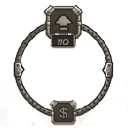
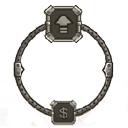
change background and button Start fix Health Bar

Changed region(s): [[0.3438, 0.2188, 0.6562, 0.4062], [0.625, 0.0938, 0.6562, 0.1875]]

diff --git a/Screen/GUI.java b/Screen/GUI.java
@@ -25,7 +25,7 @@ import static org.lwjgl.system.MemoryUtil.*;
 
 public class GUI extends Screen{
     private myTexture background;
-    private myTexture testButton;
+    private myTexture StartButton;
     private myTexture road;
     private long window;
     public boolean isPressed;
@@ -38,9 +38,15 @@ public class GUI extends Screen{
         this.background = new Utils.myTexture(backgroundImageSource, GL_QUADS);
 
         // Button
-        this.testButton = new Utils.myTexture(buttonImageSource, GL_POLYGON, 513, 346);
-        testButton.setDisplayHeight(768 / 10);
-        testButton.setDisplayWidth(1366 / 4);
+        this.StartButton = new Utils.myTexture(buttonImageSource, GL_POLYGON, 541, 343);
+        StartButton.setDisplayHeight(110);
+        StartButton.setDisplayWidth(300);
+
+        System.out.println(StartButton.getTopLeft().getX() + " " + StartButton.getTopLeft().getY());
+        System.out.println(StartButton.getBottomRight().getX() + " " + StartButton.getBottomRight().getY());
+
+        glEnable(GL_BLEND);
+        glBlendFunc(GL_SRC_ALPHA, GL_ONE_MINUS_SRC_ALPHA);
     }
 
     public void loop(long window) {
@@ -68,26 +74,30 @@ public class GUI extends Screen{
                 new Vertex(-1.0f, -1.0f)
         );
 
-        testButton.bind();
-        testButton.displayByVertex(new Vertex(-0.25f, 0.1f),
+        StartButton.bind();
+        StartButton.displayByVertex(
+                new Vertex(-0.25f, 0.1f),
                 new Vertex(0.25f, 0.1f),
-                new Vertex(0.25f, -0.1f),
-                new Vertex(-0.25f, -0.1f)
+                new Vertex(0.25f, -0.2f),
+                new Vertex(-0.25f, -0.2f)
         );
 
-        if (glfwGetMouseButton(this.window, GLFW_MOUSE_BUTTON_LEFT) == GLFW_TRUE)
-            if (onMouseHover)
+        if (glfwGetMouseButton(this.window, GLFW_MOUSE_BUTTON_LEFT) == GLFW_TRUE) {
+            System.out.println(Screen.getCursorPosX(this.window) + " " + Screen.getCursorPosY(this.window));
+            if (onMouseHover) {
                 this.isPressed = true;
+            }
+        }
 
-        if (checkMouseHover(testButton, this.window)) {
+        if (checkMouseHover(StartButton, this.window)) {
             if (!onMouseHover) {
-                testButton.changeImage("src/res/GFX/GUI/Button/button-selected.png");
+                StartButton.changeImage("src/res/GFX/GUI/Button/button-selected.png");
                 onMouseHover = true;
             }
         }
         else
             if (onMouseHover) {
-                testButton.changeImage("src/res/GFX/GUI/Button/button.png");
+                StartButton.changeImage("src/res/GFX/GUI/Button/button.png");
                 onMouseHover = false;
             }
 

diff --git a/Entity/Enemies/HealthBar.java b/Entity/Enemies/HealthBar.java
@@ -14,22 +14,35 @@ public class HealthBar {
     public HealthBar() {
     }
 
-    public void render(int health, int currentHealth, int x, int y) {
+    public void render(String color, int health, int currentHealth, int x, int y) {
         red = new myTexture("src/res/GFX/Game/Enemy/HealthBar/HealthBar_red.png", GL_QUADS, x, y);
         green = new myTexture("src/res/GFX/Game/Enemy/HealthBar/HealthBar_green.png", GL_QUADS, x, y);
         emptyBar = new myTexture("src/res/GFX/Game/Enemy/HealthBar/HealthBar_red.png", GL_QUADS, x, y);
 
-        this.red.setDisplayHeight(5);
-        this.red.setDisplayWidth((int)(48.0*((double)currentHealth / (double)health)));
-        System.out.println(currentHealth + " " + health + " " );
-
-        red.bind();
         Vertex topLeft = new Vertex(0, 0);
         Vertex topRight = new Vertex(1, 0);
         Vertex bottomLeft = new Vertex(1, 1);
         Vertex bottomRight = new Vertex(0, 1);
-        red.displayByPartitionVertex(topLeft, topRight, bottomLeft, bottomRight);
 
+        if (color.equals("red")) {
+            this.red.setDisplayHeight(5);
+            this.red.setDisplayWidth((int) (48.0 * ((double) currentHealth / (double) health)));
+
+            red.bind();
+            red.displayByPartitionVertex(topLeft, topRight, bottomLeft, bottomRight);
+        }
+        else if (color.equals("green")) {
+            this.green.setDisplayHeight(5);
+            this.green.setDisplayWidth((int) (48.0 * ((double) currentHealth / (double) health)));
+
+            green.bind();
+            green.displayByPartitionVertex(topLeft, topRight, bottomLeft, bottomRight);
+        }
+
+        this.emptyBar.bind();
+        this.emptyBar.setDisplayHeight(7);
+        this.emptyBar.setDisplayWidth(50);
+        emptyBar.displayByPartitionVertex(topLeft, topRight, bottomLeft, bottomRight);
     }
 
 }

diff --git a/Screen/GameScreen.java b/Screen/GameScreen.java
@@ -46,7 +46,7 @@ public class GameScreen extends Screen{
     private Player player;
     private boolean isMouseDown = false;
     private int tick, rate = 3;
-    private int FPS = 20;
+    private int FPS = 50;
 
     //private final double FPS = 20.0;
 
@@ -62,9 +62,6 @@ public class GameScreen extends Screen{
         glEnable(GL_BLEND);
         glBlendFunc(GL_SRC_ALPHA, GL_ONE_MINUS_SRC_ALPHA);
         upgradeAndSell = new myTexture("src/res/GFX/Game/Tower/BuyNUpgrade.png", GL_QUADS);
-
-        // Test Enemy
-        this.field.addEnemy(new BossEnemy(2, 48, 48));
 
     }
 
@@ -99,7 +96,7 @@ public class GameScreen extends Screen{
                 can_render = true;
                 if(frame_time >= 1.0) {
                     frame_time = 0;
-                    System.out.println("FPS: " + frames);
+                    //System.out.println("FPS: " + frames);
                     frames = 0;
                 }
             }

diff --git a/Entity/Enemies/Enemy.java b/Entity/Enemies/Enemy.java
@@ -35,7 +35,7 @@ public class Enemy {
         Vertex bottomRight = new Vertex((this.animationPart - 1) * range, 1);
         texture.displayByPartitionVertex(topLeft, topRight, bottomLeft, bottomRight);
 
-        bar.render(this.health, this.currentHealth, this.x, this.y - 15);
+        bar.render("red", this.health, this.currentHealth, this.x, this.y - 15);
     }
 
     public void updateAnimation() {

diff --git a/README.md b/README.md
@@ -16,7 +16,8 @@ OOP Game Project
 │   │   ├── Enemy.java
 │   │   ├── NormalEnemy.java
 │   │   ├── SmallerEnemy.java
-│   │   └── TankerEnemy.java
+│   │   ├── TankerEnemy.java
+|   |   └── HealthBar.java
 │   ├── GameEntity.java
 │   ├── GameField.java
 │   ├── GameStage.java
@@ -103,5 +104,6 @@ OOP Game Project
 └── Utils
     ├── myTexture.java
     ├── Point.java
+    ├── Timer.java
     └── Vertex.java
 ```
